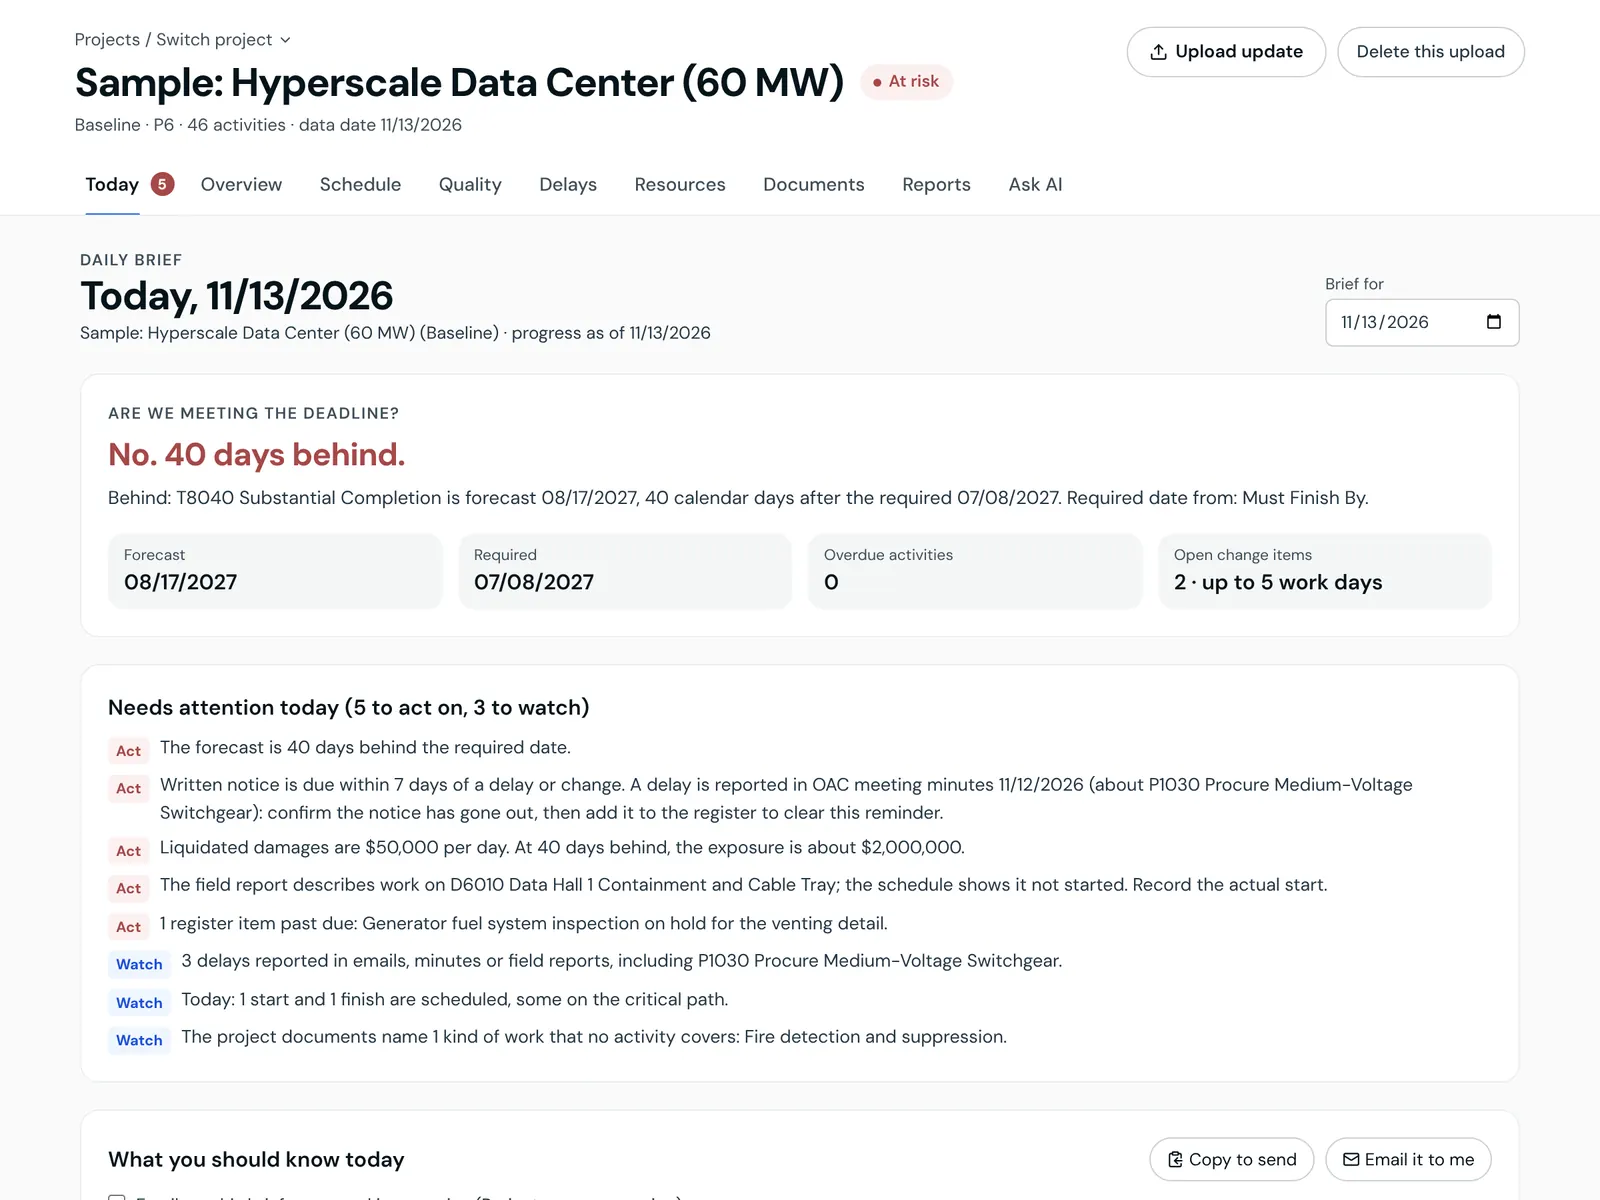
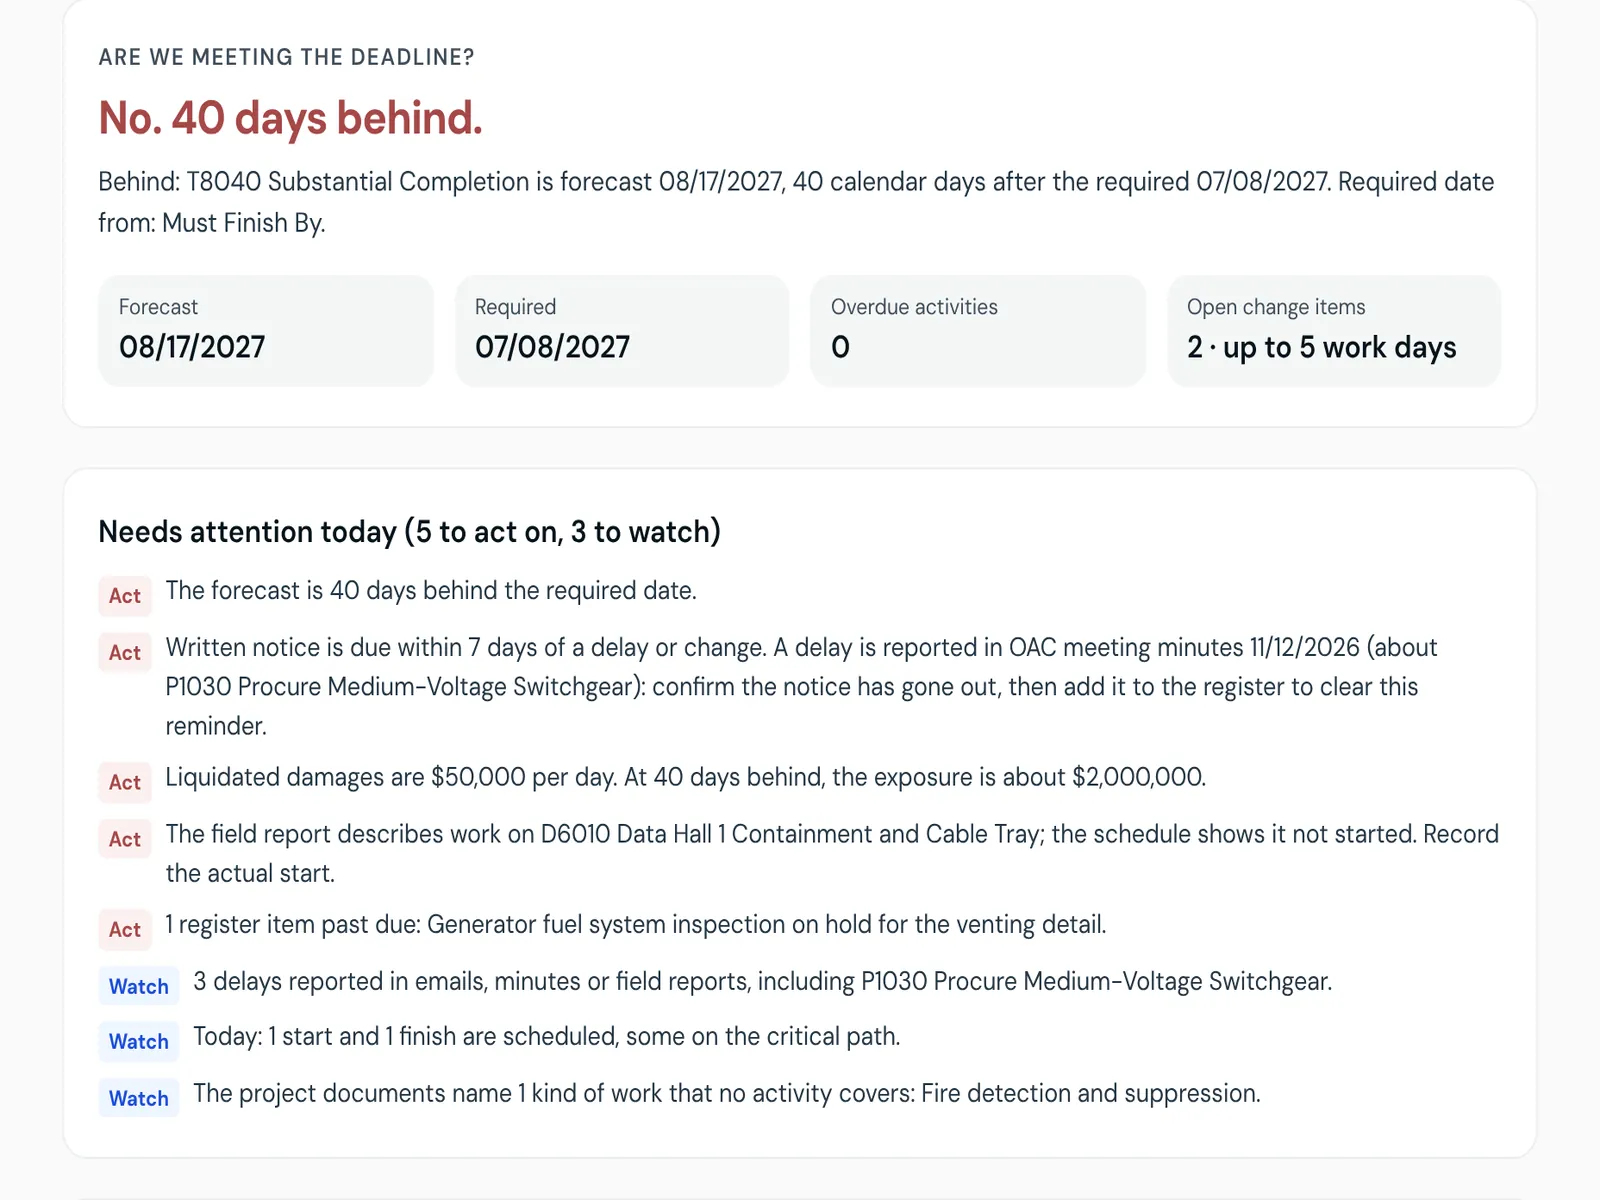
Landing page: readable screenshots, interview and risk screens, no repeats
Follow-up to the independent re-score (7.0 of 10, up from 6.1), which listed
problems in the new screenshots:

- Screenshots are retaken at a narrower width so their text is readable, and
  start below the pinned project header, so "Delete this upload" is gone
- Build shows the real interview answers instead of an empty state
- Forecast shows the Monte Carlo P50 and P80 dates instead of repeating the
  what-if screen; Check and the owner tab no longer share a picture
- The hero picture shows the whole "Will we finish on time?" card
- The cloud chips appear once (in the deployment section), not twice
- The round-trip figure's caption is shorter, so the row lines up

Claude-Session: https://claude.ai/code/session_012jBERRm6i7LpbcKwP1m2yW

diff --git a/src/components/landing/Sections.tsx b/src/components/landing/Sections.tsx
@@ -42,8 +42,8 @@ function TabList({ label, items, prefix, panel, tabs, className = '' }: { label:
 
 // ── A real screenshot in a window frame ─────────────────────────────────────────────────────────
 
-/** A screenshot of the product (public/landing/*.webp, 1600x1200, taken from the sample project). */
-export function Shot({ name, alt, label, eager = false, className = '' }: { name: string; alt: string; label: string; eager?: boolean; className?: string }) {
+/** A screenshot of the product (public/landing/*.webp, 1600 wide, taken from the built-in sample projects). */
+export function Shot({ name, alt, label, eager = false, height = 1200, className = '' }: { name: string; alt: string; label: string; eager?: boolean; height?: number; className?: string }) {
   return (
     <figure className={`rounded-[18px] md:rounded-[22px] border border-warm-200 bg-white shadow-[0_40px_80px_-40px_rgba(6,20,27,0.45)] overflow-hidden ${className}`}>
       <div className="flex items-center gap-2 px-4 h-9 md:h-10 bg-navy-900" aria-hidden="true">
@@ -53,7 +53,7 @@ export function Shot({ name, alt, label, eager = false, className = '' }: { name
       {/* eslint-disable-next-line @next/next/no-img-element */}
       {/* On a phone the picture is shown larger and cropped to its top-left, so its text stays readable */}
       <div className="aspect-[4/3] overflow-hidden sm:aspect-auto">
-        <img src={`/landing/${name}.webp`} alt={alt} width={1600} height={1200} loading={eager ? 'eager' : 'lazy'} decoding="async" className="block w-[175%] max-w-none sm:w-full h-auto" />
+        <img src={`/landing/${name}.webp`} alt={alt} width={1600} height={height} loading={eager ? 'eager' : 'lazy'} decoding="async" className="block w-[175%] max-w-none sm:w-full h-auto" />
       </div>
     </figure>
   )
@@ -62,8 +62,8 @@ export function Shot({ name, alt, label, eager = false, className = '' }: { name
 // ── The Daily Brief ──────────────────────────────────────────────────────────────────────────────
 
 const BRIEF_VIEWS = [
-  { id: 'brief', tab: 'This morning’s brief', shot: 'today', alt: 'The RunF9 Today page for a sample data center: the forecast is 40 days behind the required date, with eight items that need attention today.' },
-  { id: 'signals', tab: 'Email, meetings and contract', shot: 'signals', alt: 'The Today page showing sentences quoted from meeting minutes, a field report and an email, each tagged as a change, delay or risk, and a contract notice reminder.' },
+  { id: 'brief', tab: 'This morning’s brief', shot: 'today', alt: 'The Today page in RunF9 for a sample data center: the forecast is 40 days behind the required date, and eight items need attention today, including a notice deadline and liquidated damages exposure.' },
+  { id: 'signals', tab: 'Email, meetings and contract', shot: 'signals', alt: 'The Today page in RunF9 showing sentences quoted from meeting minutes, a field report and an email, each tagged as a delay, change or risk, with the activity it names.' },
 ]
 
 const BRIEF_POINTS = [
@@ -99,7 +99,7 @@ export function DailyBrief() {
           <div id="brief-panel" role="tabpanel" aria-labelledby={`brief-tab-${v.id}`}>
             <div key={v.id} className="rise-in"><Shot name={v.shot} alt={v.alt} label="RunF9 · Today" className="border-navy-800" /></div>
           </div>
-          <p className="text-[14px] text-navy-200 mt-4 text-center">The Today page in RunF9, on the sample data center project that every account can open.</p>
+          <p className="text-[14.5px] text-navy-200 mt-4 text-center">The Today page in RunF9, on the sample data center project that every account can open.</p>
         </Reveal>
 
         <ul className="mt-16 md:mt-20 grid sm:grid-cols-2 lg:grid-cols-4 gap-x-8 gap-y-10">
@@ -119,9 +119,9 @@ export function DailyBrief() {
 // ── Who it is for ────────────────────────────────────────────────────────────────────────────────
 
 const AUDIENCES = [
-  { id: 'gc', tab: 'General contractors', title: 'Know which open item will cost you days.', shot: 'whatif', label: 'RunF9 · Today · What-if', alt: 'What-if results in RunF9: a pending change order, a utility delay and a recovery option, each with the days it moves the finish.',
+  { id: 'gc', tab: 'General contractors', title: 'Know which open item will cost you days.', shot: 'whatif', label: 'RunF9 · Today · What-if', alt: 'What-if results in RunF9: a pending change order, a utility delay and a recovery option, each with the days it moves the finish, beside the work at risk in the next month.',
     points: ['A brief every morning: what drives the finish, what is overdue and what starts today.', 'Each open change is run against the schedule before you price it or send notice.', 'When a date slips, recovery options are re-scheduled on the real network and priced from your labor cost.'] },
-  { id: 'owner', tab: 'Owners and owner’s reps', title: 'Review a contractor’s schedule in minutes.', shot: 'quality', label: 'RunF9 · Quality', alt: 'The Quality page in RunF9: 10 of 14 DCMA checks pass, with the failing checks listed first.',
+  { id: 'owner', tab: 'Owners and owner’s reps', title: 'Review a contractor’s schedule in minutes.', shot: 'checks', label: 'RunF9 · Evaluation', alt: 'A failed DCMA check in RunF9: high float, with what it means, why it matters, how to fix it and the activities flagged.',
     points: ['Upload each monthly update: logic, duration and calendar edits and rewritten actual dates are listed by activity.', 'All 14 DCMA checks on every submission, with the activities behind each finding.', 'A client version of the brief reports progress and decisions needed in plain language.'] },
   { id: 'consultant', tab: 'Schedule consultants', title: 'Spend your hours on judgment, not on formatting.', shot: 'schedule', label: 'RunF9 · Schedule', alt: 'The Schedule page in RunF9: a Gantt chart of the sample data center with the critical path and the data date marked.',
     points: ['Reads and writes P6 and MS Project files, so your client’s tools do not change.', 'Time Impact Analysis with hashed inputs and results: the same inputs reproduce the same answer.', 'Each client’s projects sit in their own workspace, and each client’s files can stay in that client’s cloud.'] },

diff --git a/src/components/landing/Pillars.tsx b/src/components/landing/Pillars.tsx
@@ -7,13 +7,13 @@ import { Shot } from './Sections'
 const PILLARS = [
   { key: 'build', title: 'Build.', lead: 'A baseline from a conversation.', text: 'RunF9 interviews you like a senior scheduler (scope, permits, long-lead equipment, site and calendar) and builds a CPM schedule with a written basis for every duration and link.',
     points: ['Questions are ranked by how far each answer can move your finish date.', 'Or upload a P6, MS Project, Excel or PDF schedule you already have.'],
-    shot: 'interview', label: 'RunF9 · New project', alt: 'The New project page in RunF9: build a schedule with a guided interview, or upload a P6, MS Project, Excel or PDF file.' },
+    shot: 'interview', label: 'RunF9 · Interview', alt: 'The interview in RunF9 for a sample medical office building: answered questions such as the state, drawing completeness, delivery method and work week.' },
   { key: 'check', title: 'Check.', lead: 'All 14 DCMA checks, every time.', text: 'Upload a P6 or MS Project file. Each failing check lists the activities involved and a suggested fix, with the published thresholds or your organization’s own.',
     points: ['Critical path and float from forward and backward CPM passes, with calendars, lags and constraints.', 'Checks that need data the file does not have are reported as not applicable, never as passed.'],
-    shot: 'quality', label: 'RunF9 · Quality', alt: 'The Quality page in RunF9 for the sample data center: 10 of 14 DCMA checks pass, with negative float, missed tasks and CPLI listed to fix first.' },
-  { key: 'forecast', title: 'Forecast.', lead: 'Know the finish before it moves.', text: 'Every open change and reported delay is run against the real network. When a date slips, recovery options are re-scheduled and priced from your labor cost.',
-    points: ['Monte Carlo risk analysis over the full network gives P50 and P80 finish dates.', 'What-ifs change nothing in the schedule until a person approves an edit.'],
-    shot: 'whatif', label: 'RunF9 · Today · What-if', alt: 'What-if results in RunF9: a change order adds 5 work days with no effect on the finish, a utility delay moves the finish, and a recovery option pulls it back.' },
+    shot: 'quality', label: 'RunF9 · Quality', alt: 'The Quality page in RunF9 for the sample data center: the failing DCMA checks listed first (negative float, missed tasks, CPLI), with the activities behind each one.' },
+  { key: 'forecast', title: 'Forecast.', lead: 'Know the finish before it moves.', text: 'Monte Carlo risk analysis over the full network gives P50 and P80 finish dates. When a date slips, recovery options are re-scheduled and priced from your labor cost.',
+    points: ['Every open change and reported delay is run against the real network as a what-if.', 'What-ifs change nothing in the schedule until a person approves an edit.'],
+    shot: 'risk', label: 'RunF9 · Evaluation', alt: 'The Evaluation page in RunF9 for a sample medical office building: Monte Carlo P50 and P80 finish dates beside the quality score and DCMA result.' },
 ]
 
 export default function Pillars() {

diff --git a/src/components/Landing.tsx b/src/components/Landing.tsx
@@ -24,8 +24,6 @@ const secondaryBtn = 'pressable inline-flex items-center justify-center rounded-
  * Marketing page. While RunF9 is in private beta (RUNF9_SIGNUP not "open") the sign-up calls to
  * action become "Request access" / "Sign in" and the page says access is by invitation.
  */
-// Hero chips: id matches an option in src/components/landing/Deployment.tsx.
-const DEPLOY_CHIPS: [string, string][] = [['cloud', 'RunF9 Cloud'], ['aws', 'AWS'], ['azure', 'Microsoft Azure'], ['gcp', 'Google Cloud'], ['mixed', 'A different cloud per client'], ['onprem', 'Your servers']]
 
 export default function Landing({ inviteOnly, accessRequestEmail }: { inviteOnly: boolean; accessRequestEmail: string | null }) {
   const [menuOpen, setMenuOpen] = useState(false)
@@ -101,15 +99,8 @@ export default function Landing({ inviteOnly, accessRequestEmail }: { inviteOnly
           </div>
         </div>
         <div className="relative hero-rise [animation-delay:320ms] max-w-[1100px] mx-auto mt-9 md:mt-10">
-          <Shot eager name="overview" label="RunF9 · Overview" alt="The Overview page in RunF9 for a sample 60 MW data center: the finish is forecast 40 days after the required date, the project is 81% complete, 14 activities are critical and 10 of 14 quality checks pass." />
+          <Shot eager height={1000} name="overview" label="RunF9 · Overview" alt="The Overview page in RunF9 for a sample 60 MW data center: the finish is forecast 40 days after the required date, the project is 81% complete, 14 activities are critical and 10 of 14 quality checks pass." />
         </div>
-        {/* Where it runs: each name opens that option in "Run it where your data lives" */}
-        <nav aria-label="Where RunF9 runs" className="relative mt-8 flex flex-wrap items-center justify-center gap-x-2 gap-y-2 text-[14.5px] text-warm-700">
-          <span className="mr-1">Runs where your data lives:</span>
-          {DEPLOY_CHIPS.map(([id, label]) => (
-            <a key={id} href={`#deployment-${id}`} className="pressable rounded-full border border-warm-300 bg-white px-3.5 py-1.5 font-medium text-navy-950 hover:border-navy-900">{label}</a>
-          ))}
-        </nav>
       </header>
 
       {/* Facts: each figure is backed by an automated test or the product's own limits (see "Where these numbers come from") */}
@@ -118,7 +109,7 @@ export default function Landing({ inviteOnly, accessRequestEmail }: { inviteOnly
           {[
             [<>14 of 14</>, 'DCMA 14-Point checks, run automatically'],
             [<CountUp key="n" value={100000} />, 'activities scheduled by our CPM engine in automated tests'],
-            [<>0 days</>, 'of drift in dates and float when our P6 and MS Project exports are re-imported, in our test set'],
+            [<>0 days</>, 'of drift after a P6 or MS Project round trip, in our test set'],
             inviteOnly ? [<>3 briefs</>, 'every morning: project manager, field and client'] : [<>$0</>, 'to start. No credit card'],
           ].map(([value, label], i) => (
             <Reveal key={String(label)} delay={i * 90}>

diff --git a/docs/marketing/CLAIMS-REGISTER.md b/docs/marketing/CLAIMS-REGISTER.md
@@ -39,7 +39,7 @@ Every public claim about RunF9 (website, sales decks, proposals) must be listed 
 | "Works with the tools you already use" tiles (11/12/2026): P6, MS Project, Excel/PDF, Microsoft 365 mail folder, project inbox, cloud storage, API and webhooks, SSO/SCIM. "Connectors for Procore and Kahua are planned and not yet available" | ✅ | Parsers and exports above; `src/lib/server/project-mailbox.ts` (+ test; shown only where Microsoft sign-in is configured, and the tile says so); `project-inbox.ts`; `src/lib/storage/*`; `api-keys.ts`, `webhooks.ts`; `saml.ts`, `sso.ts`, `scim.ts`. No Procore or Kahua code exists, and the page says so |
 | "Security you can check for yourself" (11/12/2026): organization scoping tested on every change; SSO, SCIM, two-step an admin can require; five roles; workspaces; hash-chained audit log; AI off until an admin turns it on; CUI never sent to a model; data export, retention and deletion; TLS. "Has not yet completed a SOC 2 audit and is not FedRAMP authorized" | ✅ | `scripts/e2e-tenant-isolation.mjs`, `tenant-scope.test.ts`; `saml.ts`, `scim.ts`, `mfa.ts`; `permissions.ts`; `audit.ts` (SHA-256 chain, verified in `scripts/restore-drill.mjs`); `settings.ts`; `classification.ts`; [SECURITY-OVERVIEW.md](../security/SECURITY-OVERVIEW.md). The SOC 2 and FedRAMP sentence is a disclosure, kept until either changes |
 | FAQ (11/12/2026): does not replace P6 or MS Project; critical path is not AI; works with AI off; data in the United States on RunF9 Cloud; CUI handling; no SOC 2 yet, penetration test planned; tested at phone, tablet and desktop sizes; private beta by invitation | ✅ | Rows above; [WHERE-YOUR-DATA-GOES.md](../privacy/WHERE-YOUR-DATA-GOES.md); `docs/security/PENTEST-PLAN.md`; `scripts/e2e-devices.mjs` and `scripts/a11y-check.mjs` in CI; `signup-policy.ts` |
-| Product screenshots on the landing page (`public/landing/*.webp`, 11/13/2026) and "the sample data center project that every account can open" | ✅ | Unedited captures of the Today, Overview, Earned value, Schedule, Quality and New project pages on a local server, signed in to a new account with the built-in sample (`src/lib/planning/sample-datacenter.ts`, opened by `DataCenterSampleButton`). Only the side menu is cropped out. Retake them when those pages change |
+| Product screenshots on the landing page (`public/landing/*.webp`, 11/13/2026) and "the sample data center project that every account can open" | ✅ | Unedited captures of the Today, Overview, Earned value, Schedule and Quality pages for the built-in sample data center (`src/lib/planning/sample-datacenter.ts`, opened by `DataCenterSampleButton`), and of the Interview and Evaluation tabs for the built-in sample plan ("Open a sample project", `POST /api/plans { sample: true }`), on a local server in a new account. They are cropped (the side menu, and the pinned project header on the data center pages) and not otherwise altered. The round-trip caption was shortened on 11/13/2026 to "of drift after a P6 or MS Project round trip, in our test set"; the evidence is the round-trip row above. Retake them when those pages change |
 | "3 briefs every morning: project manager, field and client" (figures band, private beta mode; replaces "Beta", which was not a figure) | ✅ | `daily-brief.test.ts`: "writes a version for the PM, the field and the client; the client never sees internal risk wording" |
 | "What-ifs change nothing in the schedule until a person approves an edit"; "Checks that need data the file does not have are reported as not applicable, never as passed" (11/13/2026) | ✅ | What-ifs are recalculated in memory (`daily-brief.ts`; the page says "nothing is saved"); edits go through `approval.ts`. DCMA "n/a" per the first row of this table |
 | "Native P6 and MS Project files: import .xer and .xml with activities, logic, lags, constraints and calendars, and export the same formats" | ✅ | `src/lib/parsers/xer-parser.ts`, `xml-parser.ts`, `src/lib/export/xer.ts`, `msp-xml.ts`; tests in `xer-parser.test.ts`, `xml-parser.test.ts`, `formats.test.ts`, `export.test.ts`, `roundtrip.test.ts` |
